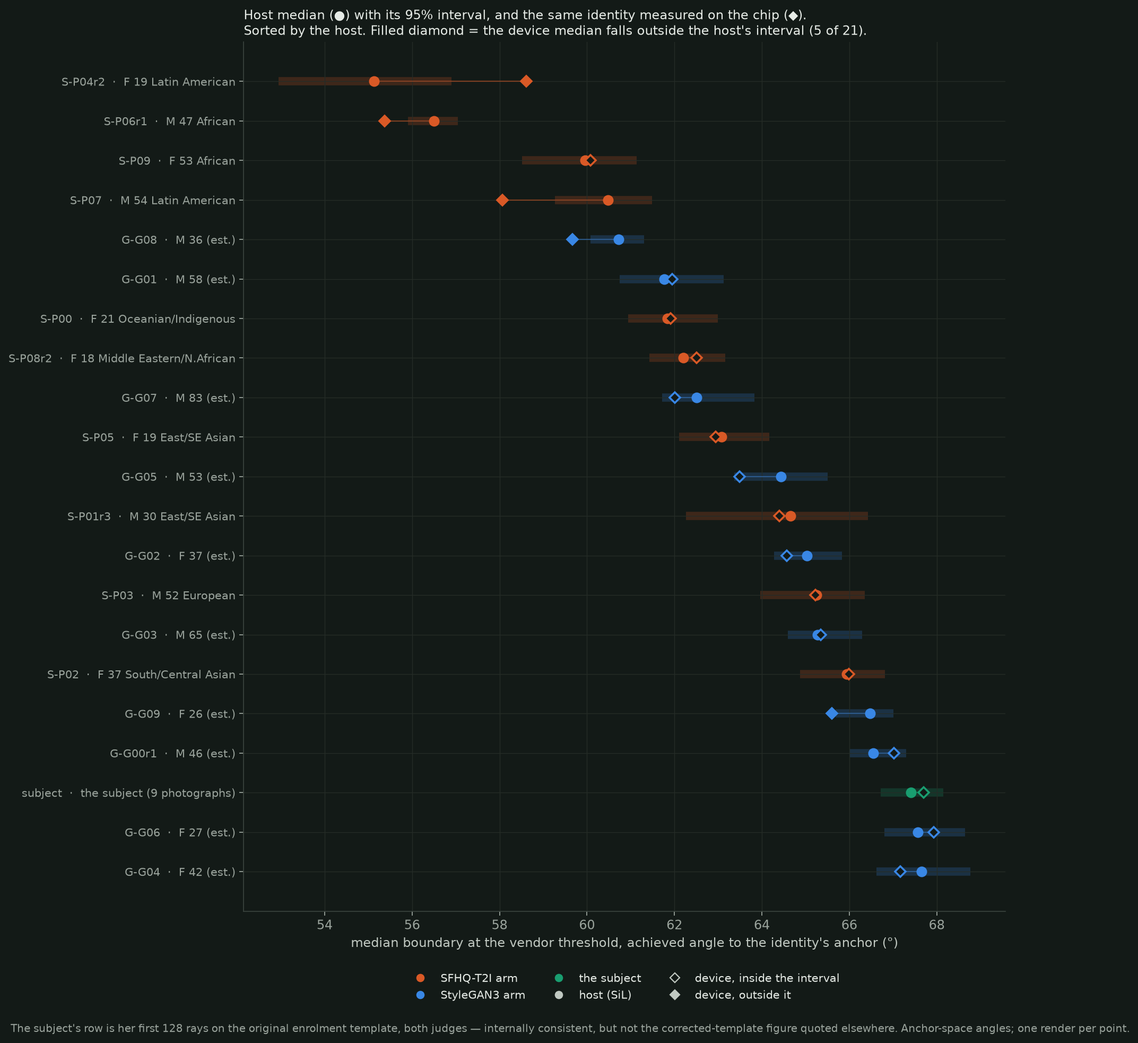
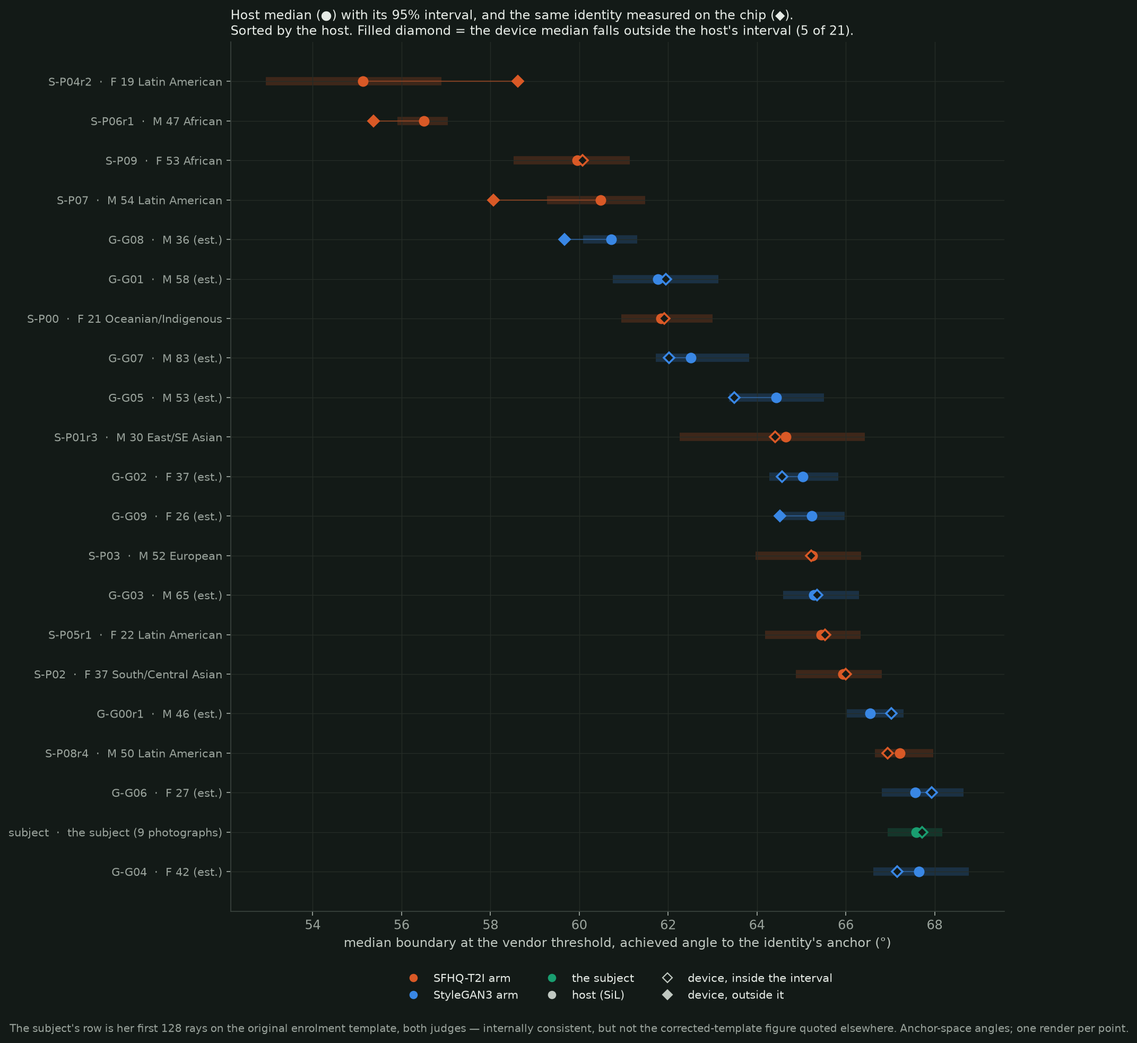
sync from identity-acceptance-surfaces design/site

diff --git a/status.html b/status.html
@@ -100,7 +100,7 @@
         <span class="ph-sum">The same measurement across a cohort of synthetic identities, and the cross-identity statistics the method was designed for. The procedure is written down from Phase 3. The first question was which synthetic faces to draw from, and the answer changed where the subject sits: two pilot cohorts of ten are now chosen, one from a text-to-image dataset and one from StyleGAN3&rsquo;s own faces, so the choice of source can itself be measured. Both cohorts are now measured on 128 directions each, host and device: twenty surfaces beside the subject&rsquo;s.</span>
         <span class="sowhat"><span class="sw-k">So what</span>
           <span class="sw-li"><strong>People differ as much as directions do.</strong> The same system, the same threshold, gives one enrolled person a region 55&deg; wide and another 68&deg;. The gap between two people is about as large as the gap between two directions on one person &mdash; so a single number for &ldquo;how loose is this system&rdquo; describes nobody in particular.</span>
-          <span class="sw-li"><strong>Some of what we learned from her was about her.</strong> &ldquo;The edge model is looser than a desktop one&rdquo; held for the subject and fails for nine of the twenty. &ldquo;The edge model is the most uneven&rdquo; held for every one of them. Only a cohort could separate the two, which is what this phase is for.</span>
+          <span class="sw-li"><strong>Some of what we learned from her was about her.</strong> &ldquo;The edge model is looser than a desktop one&rdquo; held for the subject and fails for seven of the twenty (eight on the chip). &ldquo;The edge model is the most uneven&rdquo; held for every one of them. Only a cohort could separate the two, which is what this phase is for.</span>
           <span class="sw-li"><strong>Who is exposed depends on the neighbours, and a radius does not settle it.</strong> Comparing radii, the people whose accepted region reaches past a stranger are the ones who have a stranger nearby &mdash; not the ones the system is more generous to. Walking straight at the stranger says more (<a href="explorer.html#exp19">experiment 19</a>): on eight of ten pairs one face is accepted as both people, and how far apart they are does not predict which. Being in a sparse region, measured against a random sample, protects no one.</span>
           <span class="sw-li"><strong>The fast way to measure ranks a crowd but misnames the person.</strong> Host and chip agree about the cohort and disagree about individuals: five of twenty-one by more than the measurement interval, and the narrowest identity on the host is not the narrowest on the chip. An operator screening users can work on the host; one asking who is most at risk has to run the device.</span>
           <span class="sw-li"><strong>The instrument is better than the thing it measures.</strong> Walked twice, one direction reproduces to about 0.8&deg; on the desktop float models and about 2.2&deg; on the deployed INT8 pipeline &mdash; 3.4&times; noisier in score, on identical pixels, and not an artefact of a shallower slope. A single direction, or a single decision about a single face, carries about three times the uncertainty the desktop model would give. Precision comes from more directions &mdash; a median to about &plusmn;0.5&deg; on 128, &plusmn;0.2&deg; on 1,024 &mdash; not from finer steps along one.</span>
@@ -112,10 +112,10 @@
       <div class="row">
         <div><h3>Where she sits among synthetic faces</h3><div class="st"><span class="pill done">Measured 2026-09-17</span></div></div>
         <div>
-          <p>Before choosing a cohort, every face in two synthetic populations was placed in the same recognition space the boundaries are measured in: all 122,726 images of the SFHQ-T2I text-to-image dataset (68,961 adults with a clear face) and 20,000 faces drawn from StyleGAN3 itself (17,515 eligible). For each identity, the question is how far away its nearest other identity sits &mdash; how crowded its neighbourhood is.</p>
+          <p>Before choosing a cohort, every face in two synthetic populations was placed in the same recognition space the boundaries are measured in: all 122,726 images of the SFHQ-T2I text-to-image dataset (65,124 adults with a clear face, leaving out every prompt worded &ldquo;teenage&rdquo;) and 20,000 faces drawn from StyleGAN3 itself (17,515 eligible). For each identity, the question is how far away its nearest other identity sits &mdash; how crowded its neighbourhood is.</p>
           <p><strong>The source matters.</strong> At the same pool size, SFHQ-T2I packs its identities about 9&deg; closer together than StyleGAN3&rsquo;s own faces or the HSFace dataset do (nearest neighbour 66.5&deg; against 74.9&deg; and 75.9&deg; among 2,000). A text-to-image generator&rsquo;s faces are not a stand-in for how crowded people are.</p>
           <p><strong>She sits in a sparse region.</strong> Among StyleGAN3&rsquo;s faces, a typical identity&rsquo;s nearest neighbour gets closer as the pool grows &mdash; 77.5&deg; among 500, 71.4&deg; among about 17,300 &mdash; while hers barely moves (79.7&deg; to 77.1&deg;), which puts her beyond 99% of them in the full pool. It is not an artefact of how she was measured: her nine-photograph centroid, each photograph on its own, and her own StyleGAN3 render all sit in the same sparse region.</p>
-          <p><strong>What that means for authentication.</strong> A face unlock can fail two ways. Someone else can be accepted as her: for a stranger to get in by chance their face has to fall inside her acceptance region, which reaches a median of 67&deg; at the vendor threshold, and her nearest synthetic stranger is about 77&deg; away &mdash; so fewer natural look-alikes threaten her than threaten a typical identity. For most of the text-to-image faces (92%), and for the most crowded of StyleGAN3&rsquo;s, the nearest other identity already sits inside a boundary that size. Or she can be rejected: sparseness changes nothing there, since her own photographs sit 23&ndash;36&deg; from her centre. What it does not protect against is someone moving a face <em>towards</em> her on purpose &mdash; her region is still 32&ndash;44&deg; wider than her own photographs &mdash; and the margin shrinks fast on a looser device: at a threshold of 0.4 her median boundary is 75&deg;, at 0.3 about 80&deg;. One global threshold gives different people different risks; measuring that spread is what this phase is for.</p>
+          <p><strong>What that means for authentication.</strong> A face unlock can fail two ways. Someone else can be accepted as her: for a stranger to get in by chance their face has to fall inside her acceptance region, which reaches a median of 67&deg; at the vendor threshold, and her nearest synthetic stranger is about 77&deg; away &mdash; so fewer natural look-alikes threaten her than threaten a typical identity. For most of the text-to-image faces (90%), and for the most crowded of StyleGAN3&rsquo;s, the nearest other identity already sits inside a boundary that size. Or she can be rejected: sparseness changes nothing there, since her own photographs sit 23&ndash;36&deg; from her centre. What it does not protect against is someone moving a face <em>towards</em> her on purpose &mdash; her region is still 32&ndash;44&deg; wider than her own photographs &mdash; and the margin shrinks fast on a looser device: at a threshold of 0.4 her median boundary is 75&deg;, at 0.3 about 80&deg;. One global threshold gives different people different risks; measuring that spread is what this phase is for.</p>
           
           <p>What this does not say. The populations are synthetic, so this places her among one generator&rsquo;s faces, not among real people; a consented real-image set is being sought for that. The distances are measured with the reference recogniser, not the deployed chip. And comparing her boundary with a stranger&rsquo;s distance compares radii in different directions &mdash; a guide to exposure, not a measured attack.</p>
         </div>
@@ -137,17 +137,33 @@
           <table class="numtable">
             <thead><tr><th>Cohort</th><th>INT8 median</th><th>Mean</th><th>Between people</th><th>By direction</th><th>vs desktop</th></tr></thead>
             <tbody>
-              <tr><td class="rowlbl">Text-to-image (10)</td><td>55.1&ndash;65.9&deg;</td><td>61.5&deg;</td><td>sd 3.6&deg;</td><td>sd 5.0&deg;</td><td>0.9&deg; <em>inside</em></td></tr>
-              <tr><td class="rowlbl">StyleGAN3 (10)</td><td>60.7&ndash;67.7&deg;</td><td>64.8&deg;</td><td>sd 2.4&deg;</td><td>sd 4.2&deg;</td><td>2.8&deg; outside</td></tr>
+              <tr><td class="rowlbl">Text-to-image (10)</td><td>55.1&ndash;67.2&deg;</td><td>62.2&deg;</td><td>sd 4.2&deg;</td><td>sd 5.0&deg;</td><td>0.4&deg; <em>inside</em></td></tr>
+              <tr><td class="rowlbl">StyleGAN3 (10)</td><td>60.7&ndash;67.7&deg;</td><td>64.7&deg;</td><td>sd 2.4&deg;</td><td>sd 4.2&deg;</td><td>2.7&deg; outside</td></tr>
               <tr><td class="rowlbl">The subject</td><td>67.6&deg;</td><td>&mdash;</td><td>&mdash;</td><td>sd 4.4&deg;</td><td>6.8&deg; outside</td></tr>
             </tbody>
           </table>
-          <p class="tnote">Medians at the vendor threshold (&tau; 0.5), achieved angle to each identity&rsquo;s own anchor. Per identity the INT8&ndash;desktop gap runs &minus;7.3&deg; to +3.3&deg; in the text-to-image cohort and &minus;0.5&deg; to +6.4&deg; in the StyleGAN3 one. The subject&rsquo;s row is her first <strong>128</strong> directions, so that it is measured like the cohort; her full grid of record is 1,024 directions and gives 67.4&deg;.</p>
-          <p><strong>&ldquo;INT8 is looser than the desktop model&rdquo; is not general</strong> &mdash; true of the subject, false for nine of the twenty, as the last column shows. <strong>Unevenness is general:</strong> for every identity without exception the INT8 boundary is the most direction-dependent of the four judges, against the desktop model&rsquo;s steady 2.4&deg;.</p>
-          <p><strong>Exposure follows the neighbourhood.</strong> The share of an identity&rsquo;s directions whose boundary reaches beyond its nearest other identity: 98%, 93%, 93% and 87% for the four most crowded text-to-image identities, 8% for the most isolated; 54% for the most crowded StyleGAN3 identity, 0&ndash;3% for the four most isolated; the subject 1%. That share tracks how near the neighbour is (correlation &minus;0.86 and &minus;0.82 in the two cohorts) far more than how wide the region is (&minus;0.36 and &minus;0.12): the crowded are exposed because strangers are close, not because the system is looser on them. The offsets differ by source &mdash; a StyleGAN3-native anchor render sits 12&ndash;18&deg; from its own anchor, an inverted one 27&ndash;37&deg; &mdash; and about 14&deg; of that is the two instruments cropping differently, so the offset-corrected boundary is not comparable across sources without that in mind.</p>
-          <p><strong>The chip agrees about each surface &mdash; but not about who is narrowest.</strong> Every identity was then re-judged on the ESP32-S3 itself. Averaged over directions the device sits within a fraction of a degree of the host (&minus;0.2&deg; across the twenty-one, within 1&deg; for nineteen of them), and each surface reproduces: the median boundary agrees within 1&deg; for seventeen and within 2&deg; for nineteen, and the cohort spreads come out the same (3.4&deg; and 2.7&deg; on the device against 3.6&deg; and 2.4&deg; on the host). Both findings above survive the move to silicon unchanged &mdash; on device rows the text-to-image cohort still sits 0.9&deg; <em>inside</em> the desktop model on average while the StyleGAN3 cohort sits 2.5&deg; outside it, and the INT8 boundary is still the most direction-dependent for every identity. <strong>Two things the host does not tell you.</strong> Direction by direction the two disagree by about 2&deg; (1.7&ndash;4.6&deg; per identity), so a single direction measured on the host does not predict the chip there; only the surface as a whole carries over. And for five identities the device median falls outside the host&rsquo;s 95% interval &mdash; the largest by 3.5&deg;, where the host&rsquo;s narrowest identity (55.1&deg;) measures 58.6&deg; on the chip. The overall ordering holds (rank correlation 0.98), but the three narrowest identities come out in a different order on the device than on the host: for ranking a cohort the host is enough; for naming the individual most at risk, it is not.</p>
+          <p class="tnote">Medians at the vendor threshold (&tau; 0.5), achieved angle to each identity&rsquo;s own anchor. Per identity the INT8&ndash;desktop gap runs &minus;7.3&deg; to +4.4&deg; in the text-to-image cohort and &minus;0.5&deg; to +6.4&deg; in the StyleGAN3 one. The subject&rsquo;s row is her first <strong>128</strong> directions, so that it is measured like the cohort; her full grid of record is 1,024 directions and gives 67.4&deg;.</p>
+          <p><strong>&ldquo;INT8 is looser than the desktop model&rdquo; is not general</strong> &mdash; true of the subject, false for seven of the twenty (eight on the chip). <strong>Unevenness is general:</strong> for every identity without exception the INT8 boundary is the most direction-dependent of the four judges, against the desktop model&rsquo;s steady 2.4&deg;.</p>
+          <p><strong>Exposure follows the neighbourhood.</strong> The share of an identity&rsquo;s directions whose boundary reaches beyond its nearest other identity: 98%, 93%, 93% and 87% for the four most crowded text-to-image identities, 8% for the most isolated; 54% for the most crowded StyleGAN3 identity, 0&ndash;3% for the four most isolated; the subject 1%. That share tracks how near the neighbour is (correlation &minus;0.73 and &minus;0.83 in the two cohorts). Width matters too &mdash; a wider region reaches further &mdash; but width itself barely follows crowdedness (&minus;0.16 and &minus;0.20), so the crowded are exposed because strangers are close, not because the system is looser on them. The offsets differ by source &mdash; a StyleGAN3-native anchor render sits 12&ndash;18&deg; from its own anchor, an inverted one 27&ndash;37&deg; &mdash; and about 14&deg; of that is the two instruments cropping differently, so the offset-corrected boundary is not comparable across sources without that in mind.</p>
+          <p><strong>The chip agrees about each surface &mdash; but not about who is narrowest.</strong> Every identity was then re-judged on the ESP32-S3 itself. Averaged over directions the device sits within a fraction of a degree of the host (&minus;0.2&deg; across the twenty-one, within 1&deg; for nineteen of them), and each surface reproduces: the median boundary agrees within 1&deg; for seventeen and within 2&deg; for nineteen, and the cohort spreads come out the same (4.0&deg; and 2.6&deg; on the device against 4.2&deg; and 2.4&deg; on the host). Both findings above survive the move to silicon unchanged &mdash; on device rows the text-to-image cohort still sits 0.4&deg; <em>inside</em> the desktop model on average while the StyleGAN3 cohort sits 2.4&deg; outside it, and the INT8 boundary is still the most direction-dependent for every identity. <strong>Two things the host does not tell you.</strong> Direction by direction the two disagree by about 2&deg; (1.7&ndash;4.6&deg; per identity), so a single direction measured on the host does not predict the chip there; only the surface as a whole carries over. And for five identities the device median falls outside the host&rsquo;s 95% interval &mdash; the largest by 3.5&deg;, where the host&rsquo;s narrowest identity (55.1&deg;) measures 58.6&deg; on the chip. The overall ordering holds (rank correlation 0.98), but the three narrowest identities come out in a different order on the device than on the host: for ranking a cohort the host is enough; for naming the individual most at risk, it is not.</p>
           
           
+        </div>
+      </div>
+
+      <div class="row">
+        <div><h3>The pilot, restated</h3><div class="st"><span class="pill done">Restated 2026-09-19</span></div></div>
+        <div>
+          <p><strong>One identity had been scored against the wrong template.</strong> G-G09 was enrolled two minutes before the enrolment fix that moved every template onto the pipeline&rsquo;s own 320-pixel buffer, and the pass that re-enrolled the others skipped it. Re-enrolled and re-judged on both rigs, its boundary moves from 66.5&deg; to 65.2&deg; on the host and from 65.6&deg; to 64.5&deg; on the chip; nothing else moves.</p>
+          <p><strong>No prompt worded &ldquo;teenage&rdquo;.</strong> The frame excluded under-18s by the age each prompt states, so &ldquo;an 18 year old teenage girl&rdquo; counted as an adult &mdash; and the generators render such faces younger. Every prompt worded &ldquo;teenage&rdquo; or &ldquo;adolescent&rdquo; is now out of the frame and the stranger pool, and the two pilot identities that came from one were replaced by the next candidates at the same crowdedness that passed the same gate. Both came out wider than the faces they replaced, so the text-to-image cohort now runs 55.1&ndash;67.2&deg; (was 55.1&ndash;65.9&deg;) with a spread between people of 4.2&deg; (was 3.6&deg;). Everything the phase concludes still holds: the same five identities fall outside the host&rsquo;s interval, the same three are narrowest on each rig, and the pilot as a whole still runs 55&ndash;68&deg;.</p>
+        </div>
+      </div>
+
+      <div class="row">
+        <div><h3>How close a stranger&rsquo;s photograph comes</h3><div class="st"><span class="pill done">Host and device 2026-09-19</span></div></div>
+        <div>
+          <p>The half of the measurement that needs no generator at all: two thousand text-to-image photographs, each shown once to the deployed pipeline and scored against every enrolled identity, on the host and on the chip. For the subject and the ten StyleGAN3 identities, no stranger&rsquo;s photograph reaches the threshold on either rig &mdash; her nearest scores 0.27 on the chip against a threshold of 0.5. Six of the ten text-to-image identities already have strangers at or above it; but the strangers come from the same text-to-image source, which packs faces closer together, so that contrast is mostly the source, not the system.</p>
+          <p><strong>The same lesson, from a second direction.</strong> Across the whole cohort the two rigs agree almost exactly &mdash; 44 accepted strangers in 32,717 pairings on the host, 43 on the chip. Person by person they do not: one identity has no stranger over the line on the host and three on the chip, another the reverse, and the nearest stranger is a different photograph on the two rigs for twelve of the twenty-one. The host ranks a crowd; it does not name the person.</p>
         </div>
       </div>
 
@@ -179,7 +195,7 @@
           <span class="sw-li"><strong>The edge model is looser and more uneven than desktop models.</strong> On the same images the INT8 pipeline accepts about 7&deg; further out, and by how much depends strongly on the direction of change.</span>
           <span class="sw-li"><strong>The weak spots cannot be reasoned out.</strong> Direction predicts the looseness only weakly, and the one attempt to predict the weakest direction failed. They have to be measured.</span>
           <span class="sw-li"><strong>The simulation stands in for the chip &mdash; on average.</strong> Host and device agree to about 0.4&deg; on average over her 1,024 directions, so large studies can run on the host. <em>Since confirmed on twenty more identities (Phase 4): surfaces agree within about a degree, but per direction the two differ by ~2&deg;, and the narrowest identity moved 3.5&deg; &mdash; the host ranks a cohort, it does not name the individual most at risk.</em></span>
-          <span class="sw-li"><strong>Not shown yet:</strong> that a stranger could get in &mdash; no direction reaches as far as the nearest stranger sits, but nobody has walked the path towards one &mdash; or that any of this holds for anyone but her. That is the next phase. <em>Since answered in part (Phase 4): twenty more identities were measured, and two of the findings above are hers rather than the system&rsquo;s &mdash; &ldquo;INT8 looser than the desktop model&rdquo; is false for nine of the twenty, and her region is one of the widest, not a typical one &mdash; though that comparison is indicative, not established: she is anchored and enrolled from nine photographs and they from one image each, and the check that would put the two on the same footing has not been run. Walking towards a stranger has since been done (<a href="explorer.html#exp19">experiment 19</a>): on eight of ten synthetic pairs a single face exists that the pipeline accepts as either person. Confirmed on the device: the chip finds an overlap on 12 of 16 walks and agrees with the host on 92% of verdicts.</em></span>
+          <span class="sw-li"><strong>Not shown yet:</strong> that a stranger could get in &mdash; no direction reaches as far as the nearest stranger sits, but nobody has walked the path towards one &mdash; or that any of this holds for anyone but her. That is the next phase. <em>Since answered in part (Phase 4): twenty more identities were measured, and two of the findings above are hers rather than the system&rsquo;s &mdash; &ldquo;INT8 looser than the desktop model&rdquo; is false for seven of the twenty (eight on the chip), and her region is one of the widest, not a typical one &mdash; though that comparison is indicative, not established: she is anchored and enrolled from nine photographs and they from one image each, and the check that would put the two on the same footing has not been run. Walking towards a stranger has since been done (<a href="explorer.html#exp19">experiment 19</a>): on eight of ten synthetic pairs a single face exists that the pipeline accepts as either person. Confirmed on the device: the chip finds an overlap on 12 of 16 walks and agrees with the host on 92% of verdicts.</em></span>
           <span class="sw-li"><strong>Why it matters:</strong> a desktop model and a single threshold do not describe an edge face-unlock system; its acceptance region has to be measured on the deployed pipeline, direction by direction.</span>
         </span>
       </summary>

diff --git a/why-rigs.html b/why-rigs.html
@@ -127,8 +127,8 @@
       <p class="pull">It is settled, and the answer is both at once: the host is faithful about a cohort and unfaithful about a person.</p>
       <p>Over the subject&rsquo;s grid of record &mdash; 1,024 directions, every render scored on both &mdash; the device reproduces the host to <strong>+0.4 &plusmn; 2.1&deg;</strong> per direction (+0.3 &plusmn; 2.2&deg; against the corrected enrolment template). Across the pilot of twenty further identities the cohort statistics reproduce too: the means, the between-identity spreads and the ranking all carry over (rank correlation 0.98). But <strong>five of the twenty-one</strong> individual medians fall outside the host&rsquo;s own 95% interval, the largest by 3.5&deg;, and the three narrowest identities come out in a different order on the chip &mdash; the identity the host calls tightest is not the one the device does. Per direction the two differ by about 2&deg;, an order above the average offset, so a single host ray predicts nothing about the chip at that ray.</p>
       <p>So the host carries breadth and ranks a cohort at software speed; any claim about a <em>named</em> enrolled person has to come off the device. That is the sharpest answer to &ldquo;why build two rigs&rdquo; this project has: with one rig you would not have been able to tell these two regimes apart, and an operator screening their users on the host alone would name the wrong person as most exposed.</p>
-      <p><strong>SiL or HiL vs float MobileFaceNet &mdash; the edge pipeline against a float reference.</strong> A float MobileFaceNet scored on the same recorded crops, against the INT8 pipeline running its own detector. This is where the &ldquo;does squeezing the model into a chip change what it accepts&rdquo; question lives, with one honesty condition attached: whether the vendor&rsquo;s deployed network is <em>this</em> MobileFaceNet quantised has not been verified, so the comparison is a pipeline against a reference of the same family, not quantisation of the same weights. On the subject&rsquo;s grid of record the INT8 pipeline sat about 7&deg; further out and followed the float reference ray by ray only loosely &mdash; but that is <em>her</em> figure, not a property of the pipeline. Across the pilot of twenty the INT8 boundary sits anywhere from 7&deg; inside the desktop model&rsquo;s to 6&deg; outside it, and for nine of the twenty it is the <em>tighter</em> of the two. What generalises is unevenness, not looseness.</p>
-      <p><strong>SiL or HiL vs desktop-class vs MobileFaceNet &mdash; a parameterisation question.</strong> Holding precision aside, how much of the edge model&rsquo;s behaviour is down to it being small? A 1.2M-parameter MobileFaceNet and a ~65M-parameter ArcFace R100 are different answers to the same problem; comparing all three separates &ldquo;small model&rdquo; from &ldquo;quantised model&rdquo; from &ldquo;this particular model&rdquo;. The pilot adds a fourth term the comparison has to carry: <em>this particular person</em>. Across twenty identities the boundary moves as much between people (spread 2.4&ndash;3.6&deg;) as it does between directions within one person (4.2&ndash;5.0&deg;), so any statement of the form &ldquo;the edge model is looser&rdquo; needs an identity attached to it.</p>
+      <p><strong>SiL or HiL vs float MobileFaceNet &mdash; the edge pipeline against a float reference.</strong> A float MobileFaceNet scored on the same recorded crops, against the INT8 pipeline running its own detector. This is where the &ldquo;does squeezing the model into a chip change what it accepts&rdquo; question lives, with one honesty condition attached: whether the vendor&rsquo;s deployed network is <em>this</em> MobileFaceNet quantised has not been verified, so the comparison is a pipeline against a reference of the same family, not quantisation of the same weights. On the subject&rsquo;s grid of record the INT8 pipeline sat about 7&deg; further out and followed the float reference ray by ray only loosely &mdash; but that is <em>her</em> figure, not a property of the pipeline. Across the pilot of twenty the INT8 boundary sits anywhere from 7&deg; inside the desktop model&rsquo;s to 6&deg; outside it, and for seven of the twenty (eight on the chip) it is the <em>tighter</em> of the two. What generalises is unevenness, not looseness.</p>
+      <p><strong>SiL or HiL vs desktop-class vs MobileFaceNet &mdash; a parameterisation question.</strong> Holding precision aside, how much of the edge model&rsquo;s behaviour is down to it being small? A 1.2M-parameter MobileFaceNet and a ~65M-parameter ArcFace R100 are different answers to the same problem; comparing all three separates &ldquo;small model&rdquo; from &ldquo;quantised model&rdquo; from &ldquo;this particular model&rdquo;. The pilot adds a fourth term the comparison has to carry: <em>this particular person</em>. Across twenty identities the boundary moves as much between people (spread 2.4&ndash;4.2&deg;) as it does between directions within one person (4.2&ndash;5.0&deg;), so any statement of the form &ldquo;the edge model is looser&rdquo; needs an identity attached to it.</p>
 
       <h3 style="font-family:'IBM Plex Sans',sans-serif;font-size:16px;font-weight:600;margin:18px 0 8px">Making the judges comparable</h3>
       <p>Their scores are not on a common scale, so a shared numeric threshold would be meaningless. Two operating points are used instead, and results are always labelled with which one:</p>

diff --git a/why.html b/why.html
@@ -81,7 +81,7 @@
     <section>
       <h2>What the work has shown so far</h2>
       <p>The claim that population rates hide per-identity behaviour is no longer an argument; it has been measured on this system. <strong>Every threshold between 0.27 and 0.60 gives zero false accepts and zero false rejects</strong> on the subject&rsquo;s photographs and 1,164 strangers, and across that same band the median boundary of the region the system accepts as her moves by about 22&deg; &mdash; from 79.9&deg; at 0.3, with 397 of 1,024 directions still accepted at their last point, to 57.6&deg; at 0.6. An operator tuning on FAR and FRR sees a flat, perfect line while the thing underneath moves by twenty-two degrees.</p>
-      <p>For one enrolled identity, measured to the end: the deployed INT8 pipeline still accepts altered versions of her 32&ndash;44&deg; further from her than any real photograph sits (a median boundary of 67.4&deg;, and 67.2&deg; host / 67.4&deg; device when re-judged against an enrolment template made on the pipeline&rsquo;s own buffer &mdash; a correction found on 2026-09-18 that moved the template by 21&deg; and the boundary by 0.2&deg;); it is about 6&ndash;7&deg; looser than the desktop-class model on the same images and twice as uneven by direction; and the chip reproduces the host to 0.4&deg; on average. Twenty synthetic identities have now been measured the same way, host and device, and the effect the argument predicts is there: the same vendor threshold leaves some identities with strangers already inside their accepted region and others with none, and the looseness of the deployed model is not the same from person to person &mdash; the claim that it is looser than a desktop model turns out to be true of her and false of nine of the twenty. The twenty also put a limit on measuring without the device: across a cohort the host stands in for the chip, but for individuals it does not &mdash; five of the twenty-one differ by more than their measurement interval, and the identity the host called narrowest is not the one the chip does. An operator screening a cohort can work on the host; an operator asking which of their users is most exposed has to run the device.</p>
+      <p>For one enrolled identity, measured to the end: the deployed INT8 pipeline still accepts altered versions of her 32&ndash;44&deg; further from her than any real photograph sits (a median boundary of 67.4&deg;, and 67.2&deg; host / 67.4&deg; device when re-judged against an enrolment template made on the pipeline&rsquo;s own buffer &mdash; a correction found on 2026-09-18 that moved the template by 21&deg; and the boundary by 0.2&deg;); it is about 6&ndash;7&deg; looser than the desktop-class model on the same images and twice as uneven by direction; and the chip reproduces the host to 0.4&deg; on average. Twenty synthetic identities have now been measured the same way, host and device, and the effect the argument predicts is there: the same vendor threshold leaves some identities with strangers already inside their accepted region and others with none, and the looseness of the deployed model is not the same from person to person &mdash; the claim that it is looser than a desktop model turns out to be true of her and false of seven of the twenty (eight on the chip). The twenty also put a limit on measuring without the device: across a cohort the host stands in for the chip, but for individuals it does not &mdash; five of the twenty-one differ by more than their measurement interval, and the identity the host called narrowest is not the one the chip does. An operator screening a cohort can work on the host; an operator asking which of their users is most exposed has to run the device.</p>
       <p>Paths <em>towards</em> named strangers have now been walked (<a href="explorer.html#exp19">experiment 19</a>), and on eight of ten synthetic pairs a single face exists that the pipeline accepts as either person, <strong>confirmed on the ESP32-S3 itself</strong> &mdash; the per-identity counterpart of an impersonation rate rather than a comparison of radii. What the work has still not done, in the order it matters for assurance: measure a real, consented population rather than synthetic stand-ins; and make the perturbation controllable rather than measured after the fact. The first two are in scope; the third is <a href="status.html">future work</a>.</p>
     </section>
 

diff --git a/explorer.html b/explorer.html
@@ -521,7 +521,7 @@
           </a>
           <figcaption>The population frame: as the pool grows, typical synthetic faces find closer neighbours; she does not.</figcaption>
         </figure>
-        <p class="beat"><b>Changed</b> This is the project&rsquo;s current measurement, and the first at the scale the method was designed for; the twelve-ray figures of <a href="#exp16">experiment 16</a> are its preview. The population phase is under way: two pilot cohorts of ten &mdash; one from a text-to-image dataset, one from StyleGAN3&rsquo;s own faces &mdash; each measured on the same 128 directions, host and device, with each identity&rsquo;s own nearest neighbour as its stranger. Both cohorts are now measured through: the INT8 median boundary runs 55&ndash;66&deg; across the text-to-image ten and 61&ndash;68&deg; across the StyleGAN3 ten (between-identity spread 3.6&deg; and 2.4&deg;, against 4.2&ndash;5.0&deg; across directions within one identity), which puts her 67.4&deg; at the top of the range rather than in the middle of it. Two of this experiment&rsquo;s results turn out to be hers, not the system&rsquo;s: &ldquo;INT8 looser than the desktop model&rdquo; reverses sign on the text-to-image cohort (0.9&deg; inside on average), while &ldquo;INT8 the most uneven&rdquo; holds for every identity. And the device pass qualifies the ray-by-ray parity above &mdash; across twenty-one identities the surfaces agree within about a degree, but per direction the two differ by ~2&deg; and five identities&rsquo; device medians fall outside the host&rsquo;s interval, the largest by 3.5&deg;. The status page carries the full table.</p>
+        <p class="beat"><b>Changed</b> This is the project&rsquo;s current measurement, and the first at the scale the method was designed for; the twelve-ray figures of <a href="#exp16">experiment 16</a> are its preview. The population phase is under way: two pilot cohorts of ten &mdash; one from a text-to-image dataset, one from StyleGAN3&rsquo;s own faces &mdash; each measured on the same 128 directions, host and device, with each identity&rsquo;s own nearest neighbour as its stranger. Both cohorts are now measured through: the INT8 median boundary runs 55&ndash;67&deg; across the text-to-image ten and 61&ndash;68&deg; across the StyleGAN3 ten (between-identity spread 4.2&deg; and 2.4&deg;, against 4.2&ndash;5.0&deg; across directions within one identity), which puts her 67.4&deg; at the top of the range rather than in the middle of it &mdash; indicatively, since she is anchored on nine photographs and they on one image each. Two of this experiment&rsquo;s results turn out to be hers, not the system&rsquo;s: &ldquo;INT8 looser than the desktop model&rdquo; reverses sign on the text-to-image cohort (0.4&deg; inside on average), while &ldquo;INT8 the most uneven&rdquo; holds for every identity. And the device pass qualifies the ray-by-ray parity above &mdash; across twenty-one identities the surfaces agree within about a degree, but per direction the two differ by ~2&deg; and five identities&rsquo; device medians fall outside the host&rsquo;s interval, the largest by 3.5&deg;. The status page carries the full table.</p>
       </details>
 
       <details class="exp" id="exp18" open>

diff --git a/discrimination.html b/discrimination.html
@@ -87,14 +87,14 @@
         <table class="numtable">
           <thead><tr><th>Cohort</th><th>INT8 median</th><th>Between identities</th><th>Within one, across directions</th><th>vs desktop model</th></tr></thead>
           <tbody>
-            <tr><td class="rowlbl">Text-to-image (10)</td><td>55.1&ndash;65.9&deg;</td><td>sd 3.6&deg;</td><td>sd 5.0&deg;</td><td>0.9&deg; <em>inside</em></td></tr>
-            <tr><td class="rowlbl">StyleGAN3 (10)</td><td>60.7&ndash;67.7&deg;</td><td>sd 2.4&deg;</td><td>sd 4.2&deg;</td><td>2.8&deg; outside</td></tr>
+            <tr><td class="rowlbl">Text-to-image (10)</td><td>55.1&ndash;67.2&deg;</td><td>sd 4.2&deg;</td><td>sd 5.0&deg;</td><td>0.4&deg; <em>inside</em></td></tr>
+            <tr><td class="rowlbl">StyleGAN3 (10)</td><td>60.7&ndash;67.7&deg;</td><td>sd 2.4&deg;</td><td>sd 4.2&deg;</td><td>2.7&deg; outside</td></tr>
             <tr><td class="rowlbl">The subject</td><td>67.6&deg;</td><td>&mdash;</td><td>sd 4.4&deg;</td><td>6.8&deg; outside</td></tr>
           </tbody>
         </table>
         <p class="tnote">Medians at the vendor threshold (&tau; 0.5), achieved angle to each
           identity&rsquo;s own anchor. The subject&rsquo;s row is her first <strong>128</strong> directions, so that it is measured like the cohort; her full grid of record is 1,024 directions and gives 67.4&deg;.</p>
-        <p><strong>One of those columns does not generalise, and one does.</strong> &ldquo;The deployed model is looser than the desktop one&rdquo; is true of the subject by 6.8&deg; &mdash; and false for nine of the twenty, where the INT8 boundary sits <em>inside</em> the desktop model&rsquo;s. What is general is unevenness: for every single identity, the INT8 pipeline&rsquo;s boundary is the most direction-dependent of the four judges. A result measured on one person was partly a fact about the system and partly a fact about her, and only a cohort could tell them apart.</p>
+        <p><strong>One of those columns does not generalise, and one does.</strong> &ldquo;The deployed model is looser than the desktop one&rdquo; is true of the subject by 6.8&deg; &mdash; and false for seven of the twenty (eight on the chip), where the INT8 boundary sits <em>inside</em> the desktop model&rsquo;s. What is general is unevenness: for every single identity, the INT8 pipeline&rsquo;s boundary is the most direction-dependent of the four judges. A result measured on one person was partly a fact about the system and partly a fact about her, and only a cohort could tell them apart.</p>
         <p><strong>Exposure is unequal in the way that matters to an operator.</strong> At the vendor threshold, for the most crowded identities <strong>87&ndash;98%</strong> of directions reach beyond where their nearest other identity sits; for the most isolated, 0&ndash;3%; the subject, 1%. That is driven by how near the neighbour is (correlation &minus;0.8), not by the region being wider for crowded people (&minus;0.1 to &minus;0.4). The crowded are exposed because strangers are close, not because the system is more generous to them.</p>
       </div>
 

diff --git a/data-protection.html b/data-protection.html
@@ -222,7 +222,7 @@
         it is not this one.</p>
       <p>This project measures spread <em>within</em> any such group: two identities that would
         land in the same demographic cell differed here by about thirteen degrees of boundary,
-        and the pilot's between-identity spread (sd 2.4&ndash;3.6&deg;) sits alongside a
+        and the pilot's between-identity spread (sd 2.4&ndash;4.2&deg;) sits alongside a
         within-identity, across-direction spread of 4.2&ndash;5.0&deg;. Group parity does not
         imply individual parity, and a system could pass a demographic audit while still giving
         two people in the same cell materially different security. The two measurements are
